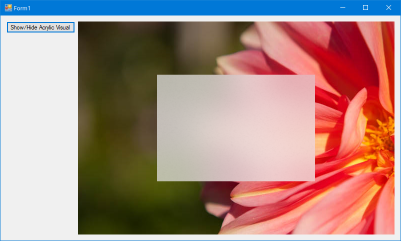
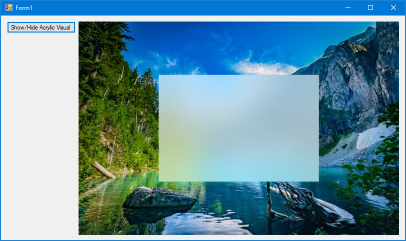
Update to use new image, saturation

diff --git a/dotnet/WinForms/AcrylicEffect/AcrylicEffect/Form1.Designer.cs b/dotnet/WinForms/AcrylicEffect/AcrylicEffect/Form1.Designer.cs
@@ -45,10 +45,10 @@
             // 
             // pictureBox1
             // 
-            this.pictureBox1.Image = global::AcrylicEffect.Properties.Resources.Nature_6;
+            this.pictureBox1.Image = global::AcrylicEffect.Properties.Resources.Lake;
             this.pictureBox1.Location = new System.Drawing.Point(155, 12);
             this.pictureBox1.Name = "pictureBox1";
-            this.pictureBox1.Size = new System.Drawing.Size(633, 426);
+            this.pictureBox1.Size = new System.Drawing.Size(640, 426);
             this.pictureBox1.TabIndex = 1;
             this.pictureBox1.TabStop = false;
             // 
@@ -56,7 +56,7 @@
             // 
             this.AutoScaleDimensions = new System.Drawing.SizeF(6F, 13F);
             this.AutoScaleMode = System.Windows.Forms.AutoScaleMode.Font;
-            this.ClientSize = new System.Drawing.Size(800, 450);
+            this.ClientSize = new System.Drawing.Size(807, 448);
             this.Controls.Add(this.pictureBox1);
             this.Controls.Add(this.button1);
             this.Location = new System.Drawing.Point(0, 0);

diff --git a/dotnet/WinForms/AcrylicEffect/AcrylicEffect/Properties/Resources.Designer.cs b/dotnet/WinForms/AcrylicEffect/AcrylicEffect/Properties/Resources.Designer.cs
@@ -63,9 +63,9 @@ namespace AcrylicEffect.Properties {
         /// <summary>
         ///   Looks up a localized resource of type System.Drawing.Bitmap.
         /// </summary>
-        internal static System.Drawing.Bitmap Nature_6 {
+        internal static System.Drawing.Bitmap Lake {
             get {
-                object obj = ResourceManager.GetObject("Nature_6", resourceCulture);
+                object obj = ResourceManager.GetObject("Lake", resourceCulture);
                 return ((System.Drawing.Bitmap)(obj));
             }
         }

diff --git a/dotnet/WinForms/AcrylicEffect/AcrylicEffect/Form1.cs b/dotnet/WinForms/AcrylicEffect/AcrylicEffect/Form1.cs
@@ -130,7 +130,7 @@ namespace AcrylicEffect
                                 Mode = BlendEffectMode.Exclusion,
                                 Background = new SaturationEffect
                                 {
-                                    Saturation = 1,
+                                    Saturation = 2,
                                     Source = new GaussianBlurEffect
                                     {
                                         Source = new CompositionEffectSourceParameter("Backdrop"),
